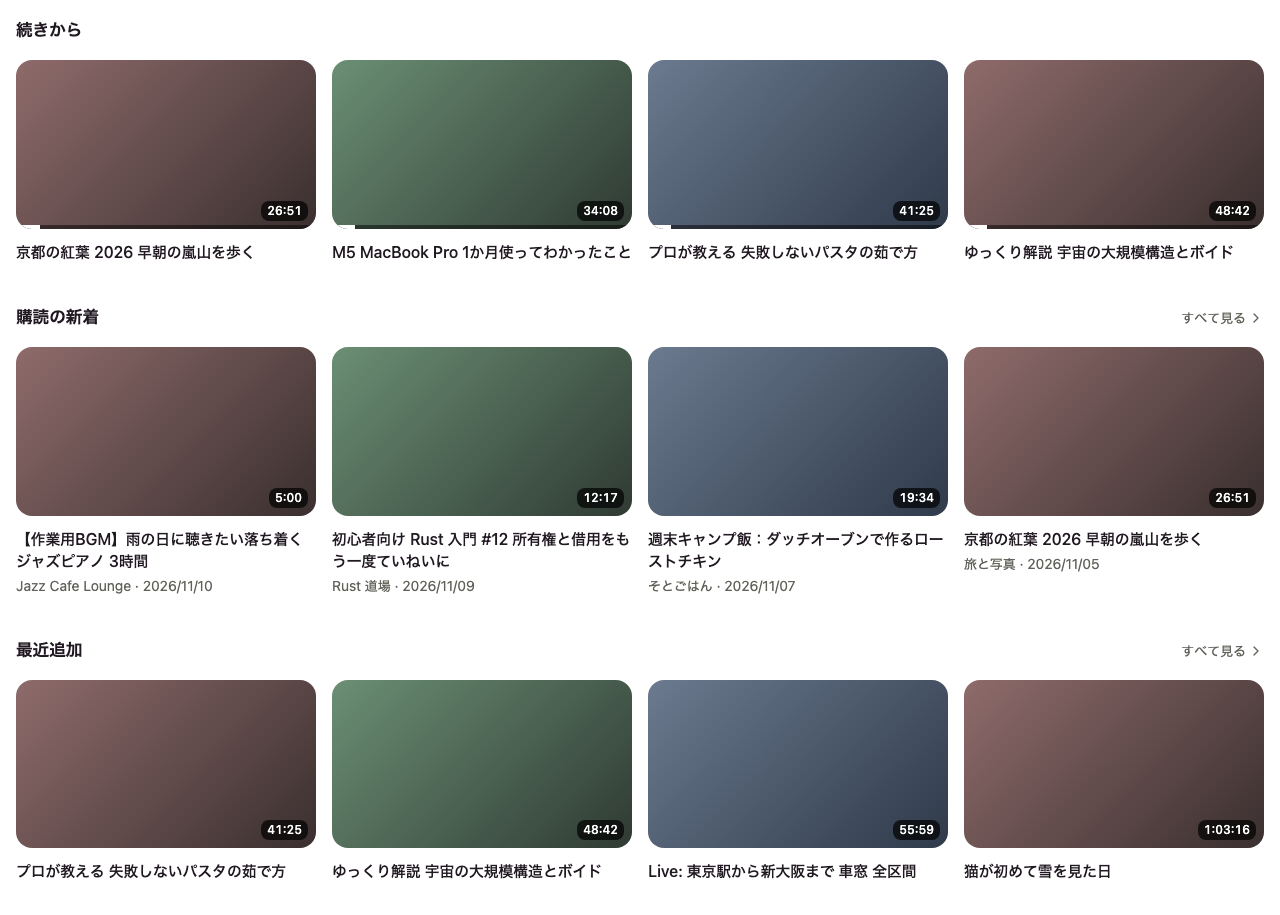
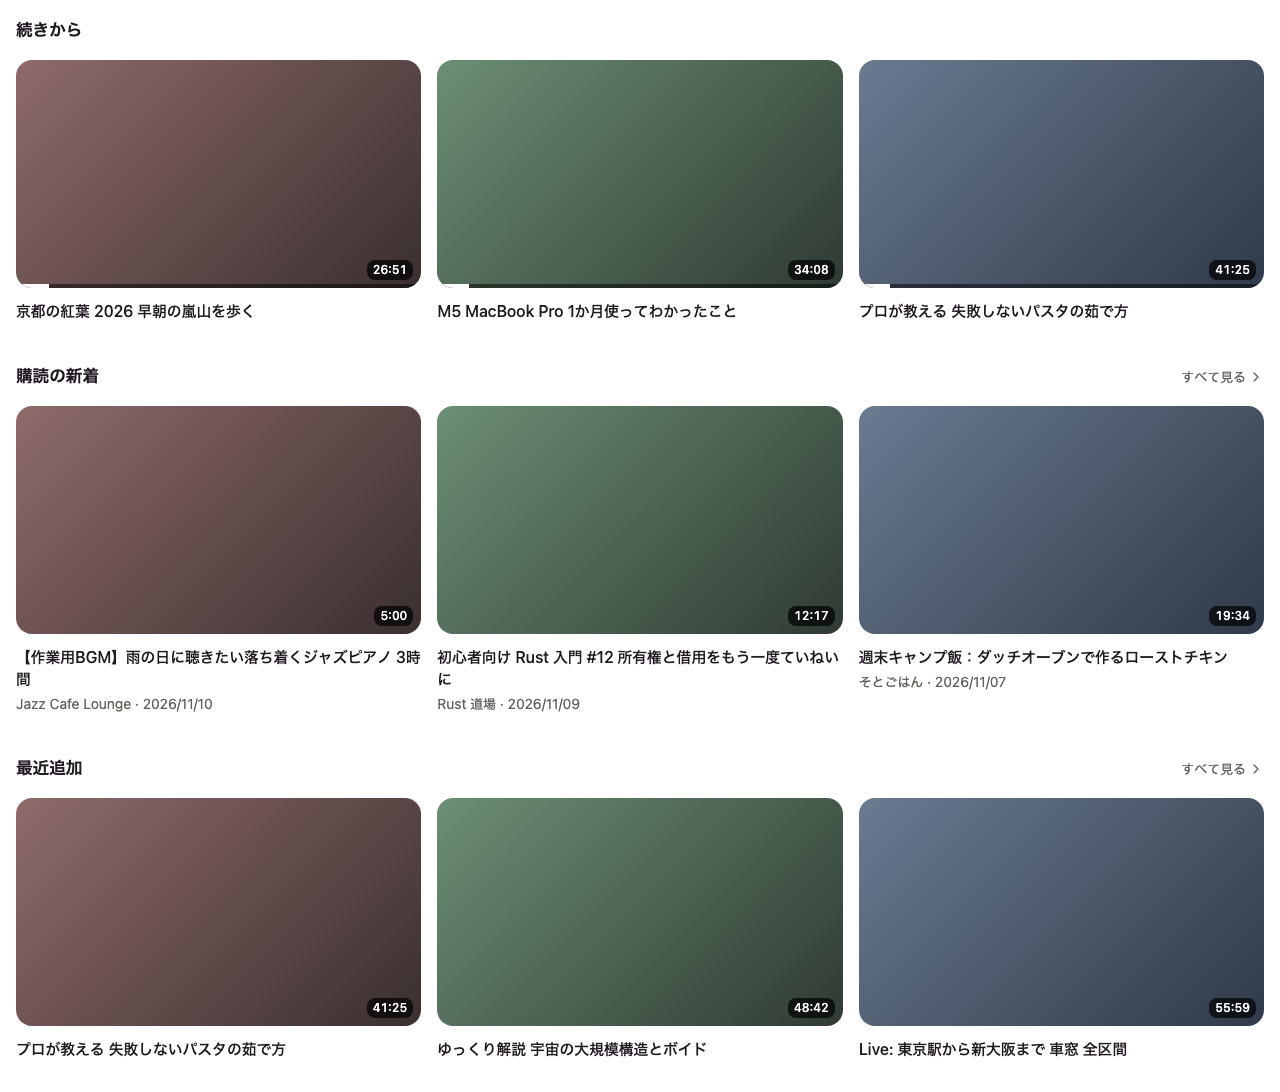
docs(spec): widen the video card minimum to 20rem (SPEC-CORE-080)

diff --git a/docs/specs/video-card-spacing.md b/docs/specs/video-card-spacing.md
@@ -20,10 +20,11 @@ The agreed design is the set of screenshots in
 `docs/process/reviews/feature-video-card-spacing/design/` (`agreed-*.png`; `current-*.png`
 is the state before this change), drawn from the real `ShelfBlock` and `VideoCard` in the
 e2e-components harness with the values below applied. `mock-fixture.tsx.txt` is the fixture
-that drew them; its see-all grid is measured with the video metric (16rem, 16px gap), so
-`agreed-page-1280.png` shows the 4 columns this spec requires. The Discover mock applied
-the 16px gap in CSS over a grid measured with 12px; at the mock's width both give 4
-columns. The human chose this design (plan B) over a spacing-only variant.
+that drew them; its see-all grid is measured with the video metric (20rem, 16px gap), and
+its Discover shelves are forced to that metric's 3 columns in CSS at the 1280px width, so
+both 1280px images show the 3 columns this spec requires. The human chose this design (plan B) over a spacing-only variant, and then a 20rem card
+minimum over 16rem ("today it is packed too tight"; YouTube's measured cards are
+347–397px wide).
 
 There is no artifact URL: the design was drawn only in the harness and shown to the human
 as images. It covers two screens in the loaded state, Discover (Continue, a subscription
@@ -38,16 +39,16 @@ Visible decisions, each checkable at 1280px and 375px:
   one truncated line. Tailwind: title `mt-3 line-clamp-2 text-base/[1.375rem]
   font-medium text-text-primary`, byline `mt-1 block truncate text-sm text-text-muted`.
 - Video grid (Discover and Library shelves, see-all page): 16px between columns, 32px
-  between rows; at least 16rem per card and at least two columns.
+  between rows; at least 20rem (320px) per card and at least two columns.
 - Shelves (video and reading apps, Discover and Library): 40px between consecutive shelves;
   16px between a shelf's header row and its grid. In both apps' Library, the "load more"
   skeleton shelf or its Retry also starts 40px below the last shelf.
 - See-all page: at 1280px viewport the grid has the same column count as a Discover shelf
-  in the same frame (4 at the measured width, where today it has 5).
+  in the same frame (3 at the 1120px frame, where today it has 5).
 - Column counts on Discover and Library shelves also move where the 16px gap changes the
-  `columnsFor` threshold: a grid 1060–1071px wide goes from 4 to 3 columns, and one
-  792–799px wide from 3 to 2 (so that shelf shows 4 cards in two rows instead of 3 in
-  one). Elsewhere the count is unchanged.
+  `columnsFor` thresholds. Within the 1120px frame: a grid 1060px or wider goes from 4 to
+  3 columns (4 cards to 3); one 792–991px wide goes from 3 to 2 columns (3 cards in one row
+  to 4 in two rows); 992–1059px keeps 3, and under 792px keeps 2.
 
 ## Required items
 
@@ -55,7 +56,7 @@ Visible decisions, each checkable at 1280px and 375px:
 
 1. The viewer opens the video app. Discover and Library draw shelves through `ShelfBlock`;
    each non-book shelf grid is a `VideoGrid` (a new component in `components/appshell/`),
-   which measures its own width, takes as many 16rem columns as fit with a 16px gap (at
+   which measures its own width, takes as many 20rem columns as fit with a 16px gap (at
    least two), and lays its cards out with a 32px row gap. `VideoGrid` is the only element
    that draws a video card grid. It hands its measured column count to its children as a
    render prop (`children: (columns) => ReactNode`), measured in the callback ref during
@@ -123,7 +124,7 @@ None: no access path changes.
 - `lib/cardGrid.ts`: `CARD_GAP_PX` (12) and `HOME_GRID` stay as they are, so the drive's
   file grids (`FileGrid`, `FolderContent`, `RightPaneFolder`, `SectionRow`, trash,
   missing, and the intelligence addon's `SceneCandidatesSection`) keep their columns and
-  `gap-3`. Video grids pass their own metric (`VIDEO_GRID`: 16rem, 16px), as book grids
+  `gap-3`. Video grids pass their own metric (`VIDEO_GRID`: 20rem, 16px), as book grids
   pass `BOOK_GRID`, including for the unmeasured first frame (`cardGridTemplate(0,
   VIDEO_GRID)`).
 - The see-all page's column count changes from viewport breakpoints (2/3/4/5) to its
@@ -163,7 +164,7 @@ in a callback ref) like the Discover shelves; nothing heavier.
 - `frontend/src/components/appshell/VideoGrid.tsx` (new) — the measured video grid:
   `useCardColumns(VIDEO_GRID)`, `cardGridTemplate(columns, VIDEO_GRID)`, `gap-x-4 gap-y-8`,
   its own measuring ref.
-- `frontend/src/lib/cardGrid.ts` — `VIDEO_GRID` (min 16rem, gap 16px) next to
+- `frontend/src/lib/cardGrid.ts` — `VIDEO_GRID` (min 20rem / 320px, gap 16px) next to
   `BOOK_GRID`.
 - `frontend/src/__tests__/card-grid.test.ts` — the guard over every card grid.
   `VideoGrid.tsx` becomes one new site; `ShelfBlock.tsx` keeps one site (now book only);
@@ -216,7 +217,7 @@ No protected path is edited.
 I1. On Discover, the Library and the see-all page, adjacent grid cells (`li`) in one video
 grid are 16px apart horizontally and 32px apart vertically (cell box to cell box).
 
-I2. A video grid's column count is `max(2, floor((W + 16) / (256 + 16)))` for its own
+I2. A video grid's column count is `max(2, floor((W + 16) / (320 + 16)))` for its own
 width W in px, on Discover, the Library and the see-all page alike; the see-all page never
 derives it from the viewport width.
 
@@ -247,8 +248,8 @@ cards to the same grid element, with no repeated or missing card at the page bou
 grid).
 
 I8. A video shelf draws exactly `c × rowsFor(c)` cards (or skeleton cards), where c is
-its I2 column count once measured and 2 before; so a shelf grid 792–799px wide draws 4
-cards in two rows and one 1060–1071px wide draws 3 in one row.
+its I2 column count once measured and 2 before; so a shelf grid 792–991px wide draws 4
+cards in two rows and one 992–1120px wide draws 3 in one row.
 
 ## Checked, no action
 
